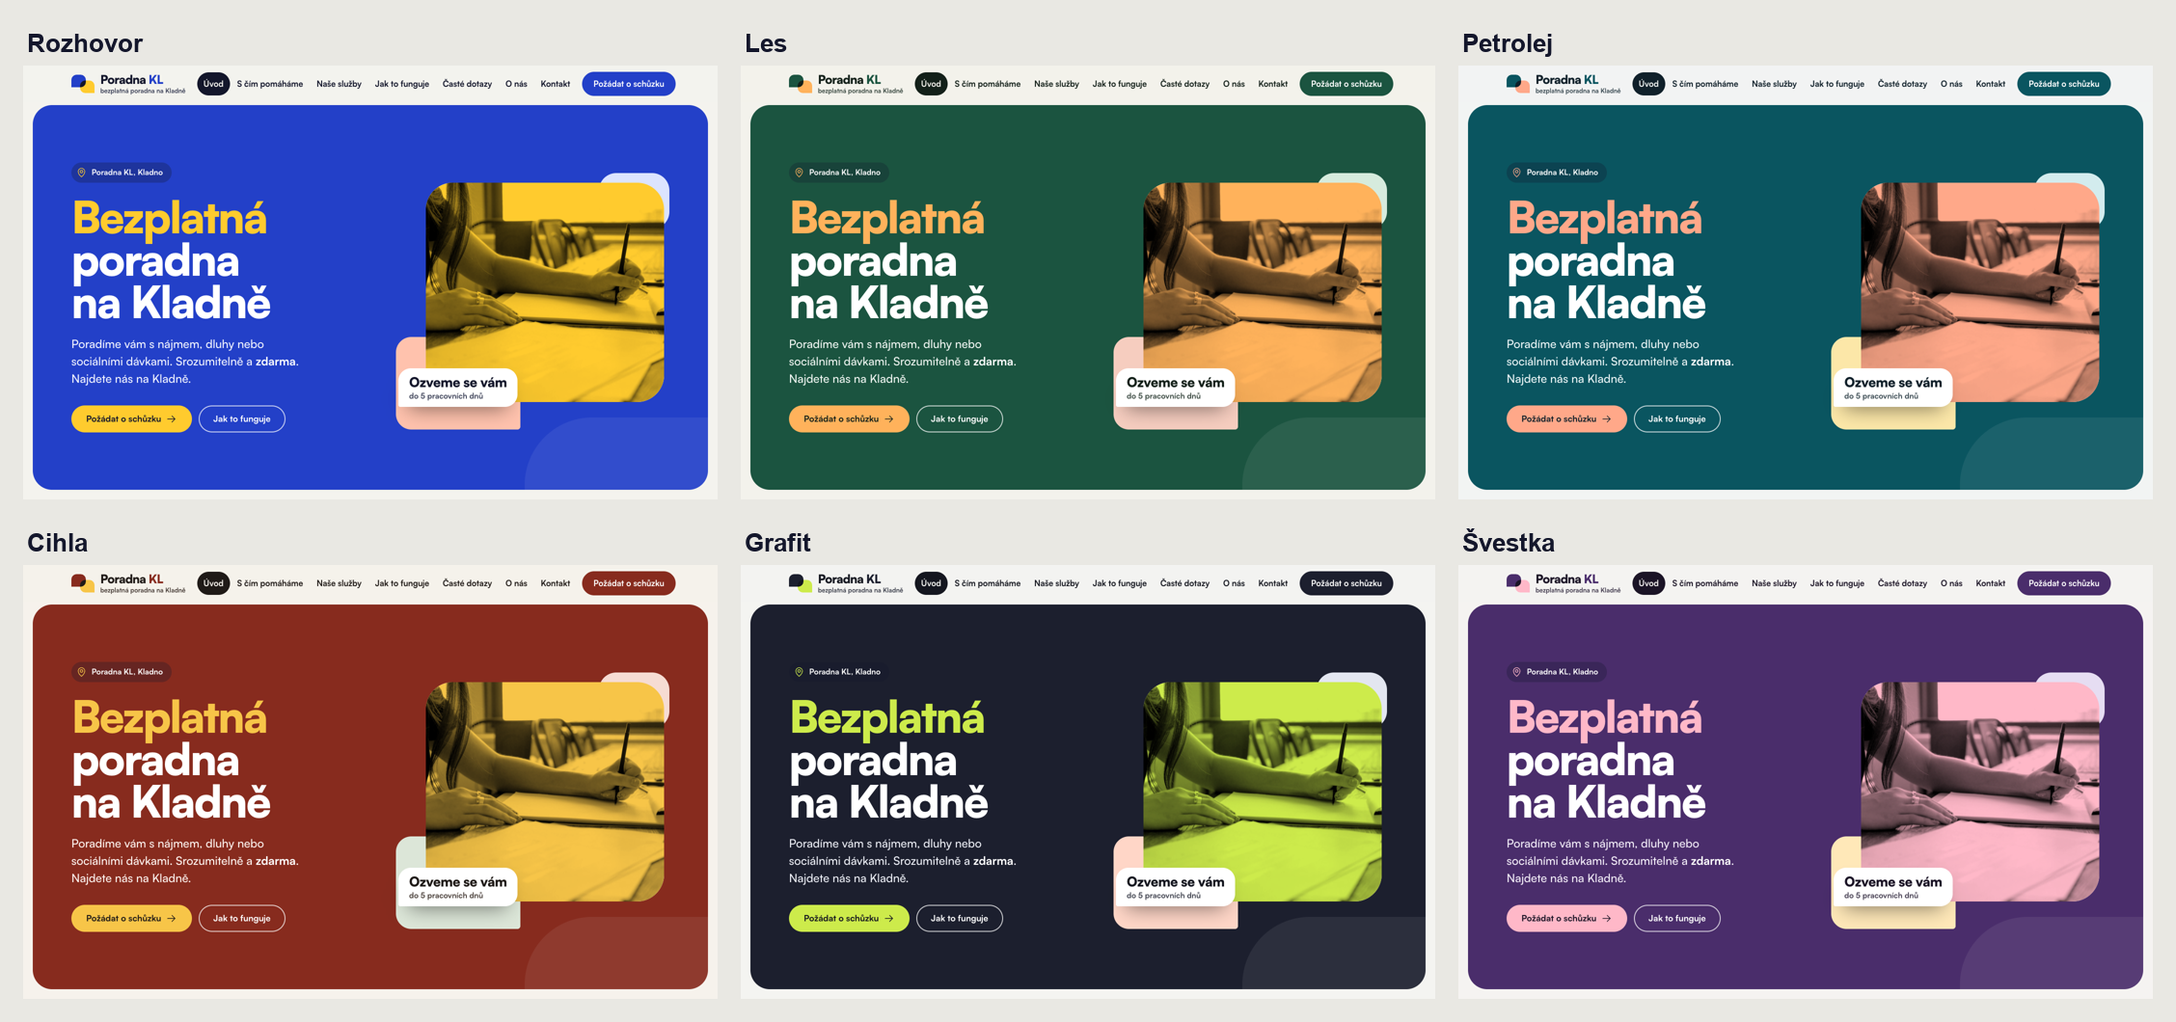
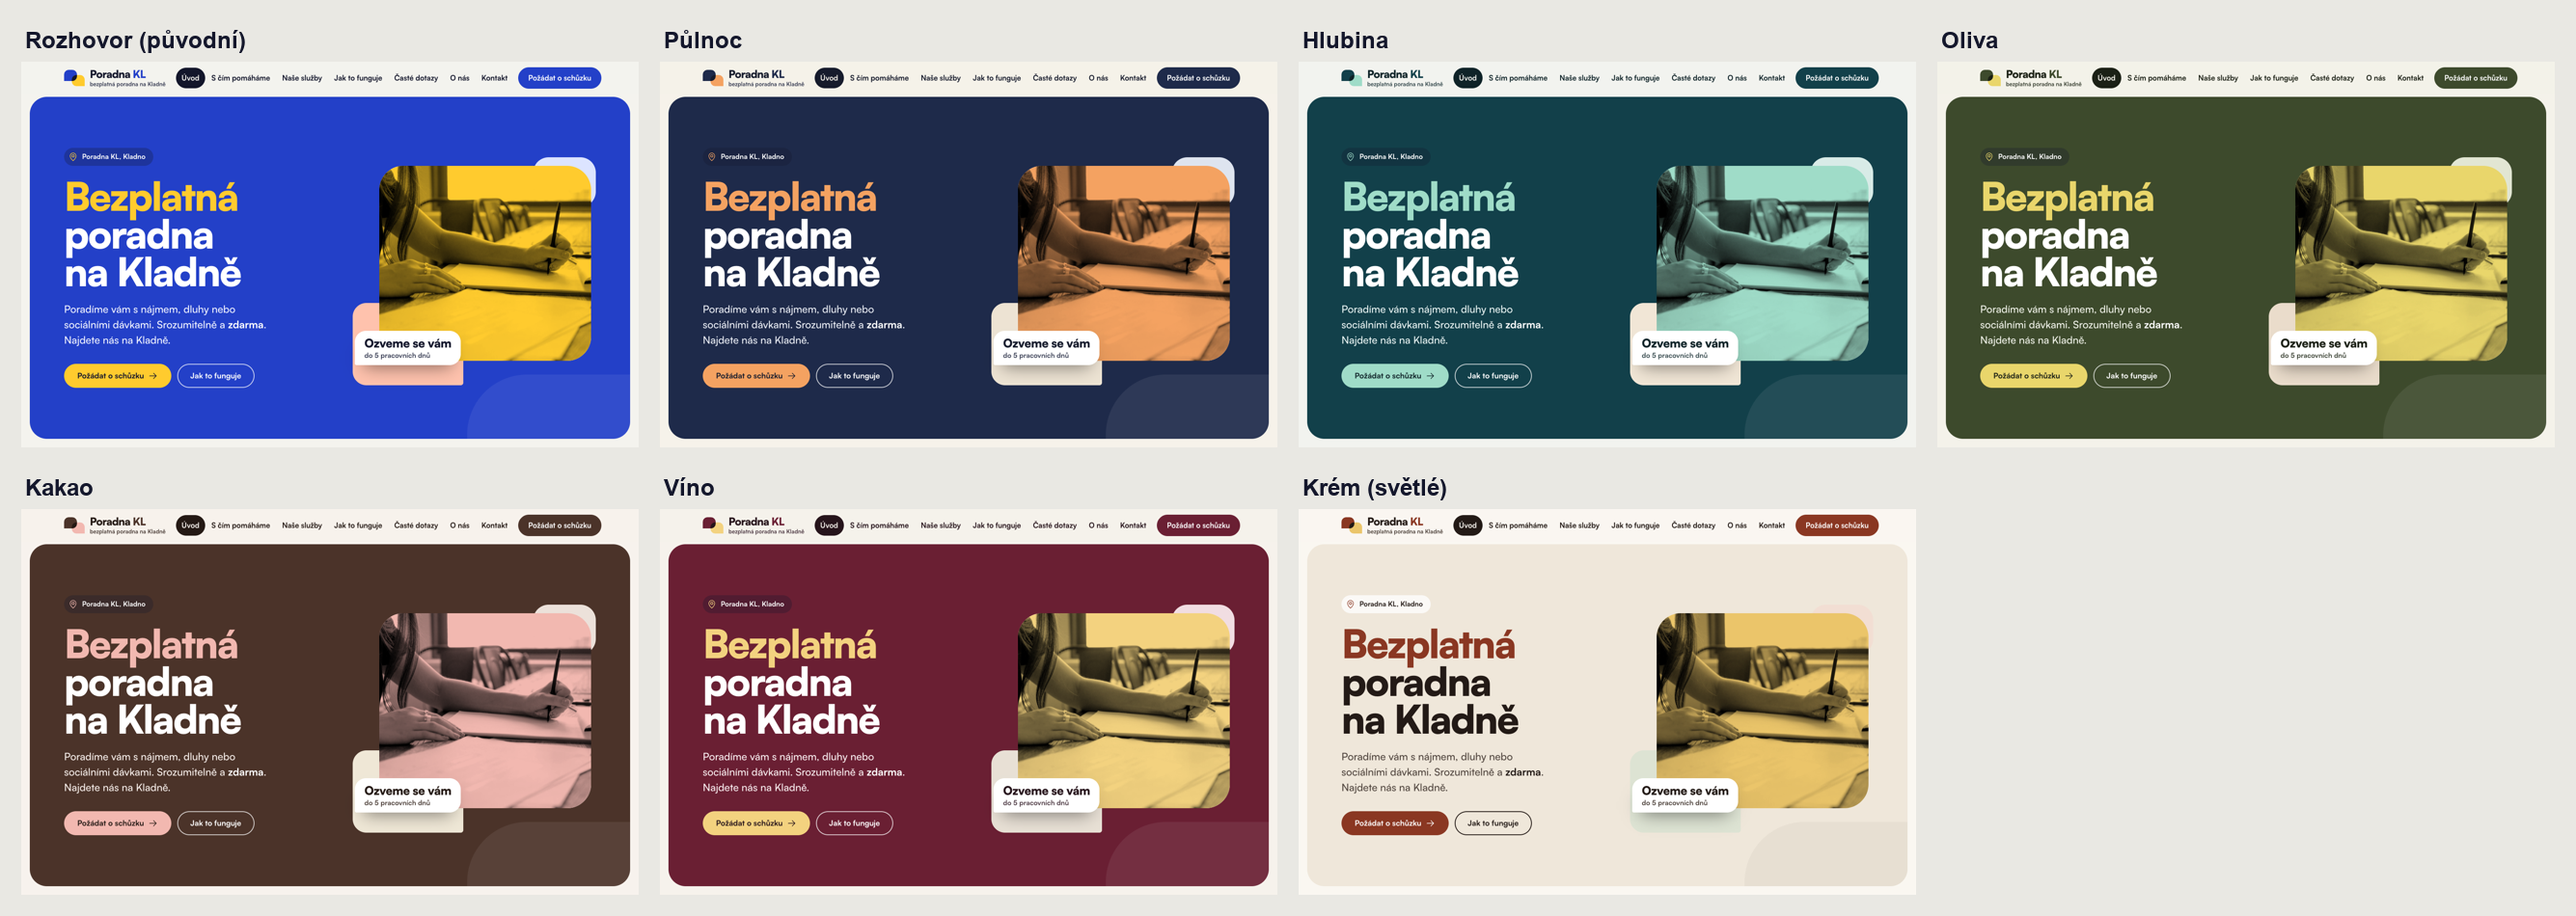
Lépe laděné palety: Půlnoc, Hlubina, Oliva, Kakao, Víno, Krém (světlé hero)
- hero a záhlaví podstránek mají vlastní tokeny --panel*, Krém je má světlé
- pastelové plochy ze stejné barevné rodiny, AAA kontrast ověřen axe

diff --git a/assets/css/site.css b/assets/css/site.css
@@ -27,6 +27,18 @@
   --field: #4C5170;
   --error: #B42318;
   --crisis: #FFC2AD;
+  /* Hero a záhlaví podstránek (panel): výchozí = sytá hlavní barva; světlé palety je přepíšou */
+  --panel: var(--blue);
+  --on-panel: var(--on-blue);
+  --on-panel-2: var(--on-blue-2);
+  --panel-accent: var(--yellow);
+  --panel-btn: var(--yellow);
+  --panel-btn-fg: var(--ink);
+  --panel-btn-hover: var(--white);
+  --panel-chip: rgb(19 22 43 / .28);
+  --panel-line: rgb(255 255 255 / .75);
+  --panel-soft: rgb(255 255 255 / .07);
+  --panel-deco: rgb(255 255 255 / .14);
 
   --display: "Satoshi", system-ui, -apple-system, "Segoe UI", Roboto, sans-serif;
   --text: "Satoshi", system-ui, -apple-system, "Segoe UI", Roboto, sans-serif;
@@ -51,11 +63,15 @@
 /* ---------- Barevné kombinace (přepínač palet) ----------
    html[data-palette] přepíše jen barevné tokeny; vše ostatní je z nich odvozené.
    Každá paleta drží kontrast: bílý text na hlavní barvě ≥ 7:1, odkazy na papíře ≥ 7:1, akcent na hlavní barvě ≥ 4,5:1. */
-html[data-palette="les"]      { --blue: #1B5440; --blue-deep: #123A2C; --on-blue-2: #F1F7F3; --yellow: #FFB25B; --sky: #D6EBDD; --butter: #FFE9C7; --peach: #F6CDBF; --paper: #F3F2EC; --ink: #132019; --ink-2: #3B4A42; --logo-b1-dark: var(--sky); }
-html[data-palette="petrolej"] { --blue: #0A5560; --blue-deep: #073E46; --on-blue-2: #EEF7F8; --yellow: #FFA889; --sky: #D3ECEE; --butter: #FFE3D6; --peach: #FCE7A8; --paper: #F2F4F3; --ink: #10202A; --ink-2: #3A4A52; --logo-b1-dark: var(--sky); }
-html[data-palette="cihla"]    { --blue: #872B1E; --blue-deep: #661F15; --on-blue-2: #FFF6F2; --yellow: #F7C548; --sky: #F6DCD3; --butter: #FBEBB8; --peach: #DCE6D8; --paper: #F6F2EC; --ink: #1F1A17; --ink-2: #4A403A; --logo-b1-dark: var(--sky); }
-html[data-palette="grafit"]   { --blue: #1C1F2E; --blue-deep: #0B0D14; --on-blue-2: #EEF0F7; --yellow: #CDEB4B; --sky: #E3E6F0; --butter: #EEF7C8; --peach: #FFD6C7; --paper: #F4F4F1; --ink: #14161F; --ink-2: #40434F; --logo-b1-dark: #FFFFFF; }
-html[data-palette="svestka"]  { --blue: #4A2D6B; --blue-deep: #371F52; --on-blue-2: #F5F0FA; --yellow: #FFB8C8; --sky: #E6DDF2; --butter: #FFE4EA; --peach: #FFE8B8; --paper: #F5F3F1; --ink: #1B1426; --ink-2: #463F52; --logo-b1-dark: var(--sky); }
+html[data-palette="pulnoc"]  { --blue: #1E2A4A; --blue-deep: #121A30; --on-blue-2: #EDF0F7; --yellow: #F4A261; --sky: #DEE4EF; --butter: #F7E4CF; --peach: #EDE3D3; --paper: #F6F2EA; --ink: #161B2C; --ink-2: #40455A; --logo-b1-dark: var(--sky); }
+html[data-palette="oliva"]   { --blue: #3D4A2C; --blue-deep: #2B3520; --on-blue-2: #F3F5EC; --yellow: #E9D66B; --sky: #E2E6D3; --butter: #F3EDC8; --peach: #EADCCB; --paper: #F4F2EA; --ink: #1B2015; --ink-2: #41483A; --logo-b1-dark: var(--sky); }
+html[data-palette="kakao"]   { --blue: #4B3329; --blue-deep: #35231C; --on-blue-2: #F8F0EC; --yellow: #F2B8B0; --sky: #ECE1DA; --butter: #F7E4E1; --peach: #EFE7D6; --paper: #F7F2ED; --ink: #241914; --ink-2: #51443E; --logo-b1-dark: var(--sky); }
+html[data-palette="hlubina"] { --blue: #12404A; --blue-deep: #0B2D34; --on-blue-2: #ECF6F5; --yellow: #9FDCC8; --sky: #D8EBE7; --butter: #E7F4EF; --peach: #F1E6D6; --paper: #F2F3EF; --ink: #0F2328; --ink-2: #3B4E52; --logo-b1-dark: var(--sky); }
+html[data-palette="vino"]    { --blue: #6A1F33; --blue-deep: #4E1625; --on-blue-2: #FBF0F2; --yellow: #F3D27F; --sky: #F1DDE2; --butter: #F8EDCD; --peach: #E8E0D5; --paper: #F6F2EC; --ink: #26141B; --ink-2: #534049; --logo-b1-dark: var(--sky); }
+/* Krém: světlé hero bez sytého bloku, hlavní barva terakota jen na tlačítkách a akcentech */
+html[data-palette="krem"]    { --blue: #8A3722; --blue-deep: #6E2B1A; --on-blue-2: #FFF4EE; --yellow: #EBC56A; --sky: #F2DED3; --butter: #F5EBCB; --peach: #DDE3D3; --paper: #FAF7F1; --ink: #231A16; --ink-2: #51463F; --logo-b1-dark: var(--sky);
+  --panel: #EFE7DA; --on-panel: var(--ink); --on-panel-2: var(--ink-2); --panel-accent: var(--blue); --panel-btn: var(--blue); --panel-btn-fg: #FFFFFF; --panel-btn-hover: var(--blue-deep);
+  --panel-chip: rgb(255 255 255 / .75); --panel-line: var(--ink); --panel-soft: rgb(35 26 22 / .04); --panel-deco: var(--sky); }
 
 @media (min-width: 768px) { :root { --fs-body: 1.1875rem; --gutter: 32px; --edge: 20px; } }
 
@@ -171,15 +187,15 @@ a:focus-visible .i { color: var(--ink); }
 
 /* ---------- Hero ---------- */
 .hero { padding: 6px var(--edge) 0; }
-.hero__panel { position: relative; overflow: hidden; display: grid; align-items: center; min-height: calc(100svh - var(--header-h) - 6px - var(--edge)); background: var(--blue); color: var(--on-blue); border-radius: var(--r-panel); }
+.hero__panel { position: relative; overflow: hidden; display: grid; align-items: center; min-height: calc(100svh - var(--header-h) - 6px - var(--edge)); background: var(--panel); color: var(--on-panel); border-radius: var(--r-panel); }
 .hero h1 { font-size: min(var(--fs-h1), 11.5svh); }
 .hero__grid { position: relative; z-index: 1; display: grid; gap: 40px; align-items: center; padding-block: clamp(36px, 5vw, 80px); }
-.hero__eyebrow { display: inline-flex; align-items: center; gap: 10px; padding: 8px 18px 8px 10px; margin-bottom: 26px; border-radius: 999px; background: rgb(19 22 43 / .28); font-size: 1rem; font-weight: 700; color: var(--on-blue); }
-.hero__eyebrow .i { width: 22px; height: 22px; color: var(--yellow); }
-.hero h1 { color: var(--on-blue); max-width: 11ch; }
-.hero h1 em { font-style: normal; color: var(--yellow); }
-.hero .lead { margin-top: 26px; color: var(--on-blue-2); max-width: 30ch; }
-.hero .lead strong { color: var(--white); }
+.hero__eyebrow { display: inline-flex; align-items: center; gap: 10px; padding: 8px 18px 8px 10px; margin-bottom: 26px; border-radius: 999px; background: var(--panel-chip); font-size: 1rem; font-weight: 700; color: var(--on-panel); }
+.hero__eyebrow .i { width: 22px; height: 22px; color: var(--panel-accent); }
+.hero h1 { color: var(--on-panel); max-width: 11ch; }
+.hero h1 em { font-style: normal; color: var(--panel-accent); }
+.hero .lead { margin-top: 26px; color: var(--on-panel-2); max-width: 30ch; }
+.hero .lead strong { color: var(--on-panel); }
 .hero .btn-row { margin-top: 38px; }
 .hero__visual { position: relative; justify-self: center; width: min(100%, 560px); aspect-ratio: 1 / .92; isolation: isolate; }
 .hero__photo { position: absolute; inset: 4% 2% 8% 10%; overflow: hidden; border-radius: 56px 56px 56px 8px; background: var(--yellow); }
@@ -191,7 +207,7 @@ a:focus-visible .i { color: var(--ink); }
 .hero__visual .bubble--c { left: 0; bottom: 6%; z-index: 2; padding: 14px 22px; background: var(--white); color: var(--ink); font-family: var(--display); font-weight: 800; font-size: clamp(1.25rem, .95rem + .9vw, 1.75rem); letter-spacing: -.02em; line-height: 1.1; border-radius: 26px 26px 26px 4px; box-shadow: 0 24px 40px -22px rgb(0 0 0 / .55); }
 .hero__visual .bubble--c span { display: block; font-family: var(--text); font-size: 1rem; font-weight: 650; letter-spacing: 0; color: var(--ink-2); margin-top: 4px; }
 .hero__deco { position: absolute; inset: 0; z-index: 0; pointer-events: none; }
-.hero__deco .bubble { background: rgb(255 255 255 / .07); }
+.hero__deco .bubble { background: var(--panel-soft); }
 .hero__deco .d1 { width: 560px; height: 380px; right: -180px; bottom: -230px; border-radius: 140px 140px 16px 140px; }
 @media (max-width: 599px) { .hero__deco { display: none; } .topic-card__bg { width: 34%; bottom: -30%; right: -10%; } }
 
@@ -322,12 +338,12 @@ a:focus-visible .i { color: var(--ink); }
 
 /* ---------- Záhlaví podstránky ---------- */
 .page-head { padding: 6px var(--edge) 0; }
-.page-head__panel { position: relative; overflow: hidden; background: var(--blue); color: var(--on-blue); border-radius: var(--r-panel); padding-block: clamp(44px, 6vw, 96px); }
+.page-head__panel { position: relative; overflow: hidden; background: var(--panel); color: var(--on-panel); border-radius: var(--r-panel); padding-block: clamp(44px, 6vw, 96px); }
 .page-head__panel .container { position: relative; z-index: 1; }
-.page-head h1 { color: var(--on-blue); max-width: 14ch; font-size: clamp(2.75rem, 1.6rem + 4.4vw, 5.25rem); }
-.page-head .lead { margin-top: 22px; color: var(--on-blue-2); max-width: 52ch; }
+.page-head h1 { color: var(--on-panel); max-width: 14ch; font-size: clamp(2.75rem, 1.6rem + 4.4vw, 5.25rem); }
+.page-head .lead { margin-top: 22px; color: var(--on-panel-2); max-width: 52ch; }
 .page-head .deco { position: absolute; right: clamp(-60px, -3vw, -20px); bottom: clamp(-80px, -5vw, -36px); width: clamp(220px, 26vw, 380px); pointer-events: none; }
-.page-head .deco .b1 { fill: rgb(255 255 255 / .14); } .page-head .deco .b2 { fill: var(--yellow); } .page-head .deco .b3 { fill: var(--ink); }
+.page-head .deco .b1 { fill: var(--panel-deco); } .page-head .deco .b2 { fill: var(--yellow); } .page-head .deco .b3 { fill: var(--ink); }
 @media (max-width: 899px) { .page-head .deco { width: 150px; right: -40px; bottom: -50px; opacity: .5; } }
 @media (max-width: 699px) { .page-head .deco { display: none; } }
 .page-head__chips { display: flex; flex-wrap: wrap; gap: 10px; margin-top: 30px; padding: 0; list-style: none; }
@@ -596,7 +612,7 @@ main > .section:last-child { padding-bottom: 0; }
   .print-only-checklist .page-head, .print-only-checklist .site-footer, .print-only-checklist .chat-col { display: none !important; }
 }
 
-.page-head .mark, .hero .mark { background: none; color: var(--yellow); font-weight: 800; }
+.page-head .mark, .hero .mark { background: none; color: var(--panel-accent); font-weight: 800; }
 .mission-photo img { filter: grayscale(1) contrast(1.05) brightness(1.4); }
 
 @media (min-width: 960px) and (max-height: 820px) {
@@ -605,6 +621,12 @@ main > .section:last-child { padding-bottom: 0; }
   .hero .lead { margin-top: 18px; }
   .hero .btn-row { margin-top: 26px; }
 }
+
+/* Tlačítka uvnitř hero se řídí panelem (na světlém hero je hlavní tlačítko v hlavní barvě) */
+.hero__panel .btn--sun { background: var(--panel-btn); color: var(--panel-btn-fg); }
+.hero__panel .btn--sun:hover { background: var(--panel-btn-hover); }
+.hero__panel .btn--ghost-light { color: var(--on-panel); border-color: var(--panel-line); }
+.hero__panel .btn--ghost-light:hover { background: var(--on-panel); color: var(--panel); border-color: var(--on-panel); }
 
 /* ---------- Přepínač barev (nástroj pro výběr palety, na ostré doméně skrytý) ---------- */
 .palette { position: fixed; right: max(16px, env(safe-area-inset-right, 0px)); bottom: max(16px, env(safe-area-inset-bottom, 0px)); z-index: 90; display: flex; flex-direction: column; align-items: flex-end; gap: 10px; font-family: var(--text); }

diff --git a/assets/js/site.js b/assets/js/site.js
@@ -344,12 +344,13 @@
      Nástroj pro výběr palety s klientem. Na ostré doméně (poradnakl.cz) je skrytý,
      zobrazí se s ?barvy. Odkaz na konkrétní paletu: ?paleta=les */
   var PALETTES = [
-    { id: 'rozhovor', name: 'Rozhovor', note: 'modrá a žlutá', c: ['#2340C8', '#FFCB2E', '#DCE4FF'] },
-    { id: 'les', name: 'Les', note: 'zelená a meruňková', c: ['#1B5440', '#FFB25B', '#D6EBDD'] },
-    { id: 'petrolej', name: 'Petrolej', note: 'petrolejová a korálová', c: ['#0A5560', '#FFA889', '#D3ECEE'] },
-    { id: 'cihla', name: 'Cihla', note: 'cihlová a hořčicová', c: ['#872B1E', '#F7C548', '#F6DCD3'] },
-    { id: 'grafit', name: 'Grafit', note: 'grafitová a limetková', c: ['#1C1F2E', '#CDEB4B', '#E3E6F0'] },
-    { id: 'svestka', name: 'Švestka', note: 'švestková a růžová', c: ['#4A2D6B', '#FFB8C8', '#E6DDF2'] }
+    { id: 'rozhovor', name: 'Rozhovor', note: 'původní modrá a žlutá', c: ['#2340C8', '#FFCB2E', '#DCE4FF'] },
+    { id: 'pulnoc', name: 'Půlnoc', note: 'noční modrá a meruňková', c: ['#1E2A4A', '#F4A261', '#DEE4EF'] },
+    { id: 'hlubina', name: 'Hlubina', note: 'tmavě tyrkysová a mořská pěna', c: ['#12404A', '#9FDCC8', '#D8EBE7'] },
+    { id: 'oliva', name: 'Oliva', note: 'olivová a citronová', c: ['#3D4A2C', '#E9D66B', '#E2E6D3'] },
+    { id: 'kakao', name: 'Kakao', note: 'kakaová a pudrově růžová', c: ['#4B3329', '#F2B8B0', '#ECE1DA'] },
+    { id: 'vino', name: 'Víno', note: 'vínová a máslová', c: ['#6A1F33', '#F3D27F', '#F1DDE2'] },
+    { id: 'krem', name: 'Krém', note: 'světlé, terakota jako akcent', c: ['#EFE7DA', '#8A3722', '#EBC56A'] }
   ];
   function initPalette() {
     var params = new URLSearchParams(location.search);

diff --git a/README.md b/README.md
@@ -51,15 +51,15 @@ Dokud nejsou proměnné nastavené, formulář po odeslání slušně oznámí c
 
 ## Přepínač barevných kombinací
 
-Vpravo dole je tlačítko „Barvy“ se šesti paletami: Rozhovor, Les, Petrolej, Cihla, Grafit a Švestka.
+Vpravo dole je tlačítko „Barvy“ se sedmi paletami: Rozhovor (původní), Půlnoc, Hlubina, Oliva, Kakao, Víno a Krém. Krém je světlá varianta, kde hero a záhlaví nejsou sytý blok (tokeny `--panel*`).
 
 - Změní barvy celého webu včetně fotek, loga a dekorací.
 - Volba se pamatuje i na dalších stránkách.
-- Odkaz na konkrétní paletu: `?paleta=les` (tlačítko „Zkopírovat odkaz na tuto paletu“).
+- Odkaz na konkrétní paletu: `?paleta=pulnoc` (tlačítko „Zkopírovat odkaz na tuto paletu“).
 - Na ostré doméně `poradnakl.cz` je přepínač skrytý. Zobrazí se s `?barvy`.
 - Všechny palety drží kontrast AAA (ověřeno axe na 7 stránkách, desktop i mobil).
 - **Jak paletu zvolit natrvalo:** hodnoty vybrané palety z bloku `html[data-palette="…"]` v `assets/css/site.css` se přepíšou do `:root` a přepínač (`initPalette` v `site.js`) se smaže.
-- Náhled všech palet: `docs/palety-nahled.png`. Ve Figmě jsou stejné palety jako režimy proměnných „Poradna KL“.
+- Náhled všech palet: `docs/palety-nahled.png`. Ve Figmě jsou stejné palety jako režimy proměnných „Poradna KL“ (kromě Krému, který potřebuje vlastní proměnné pro hero).
 
 ## Přístupnost (cíl WCAG 2.2 AA, kontrast AAA)
 
